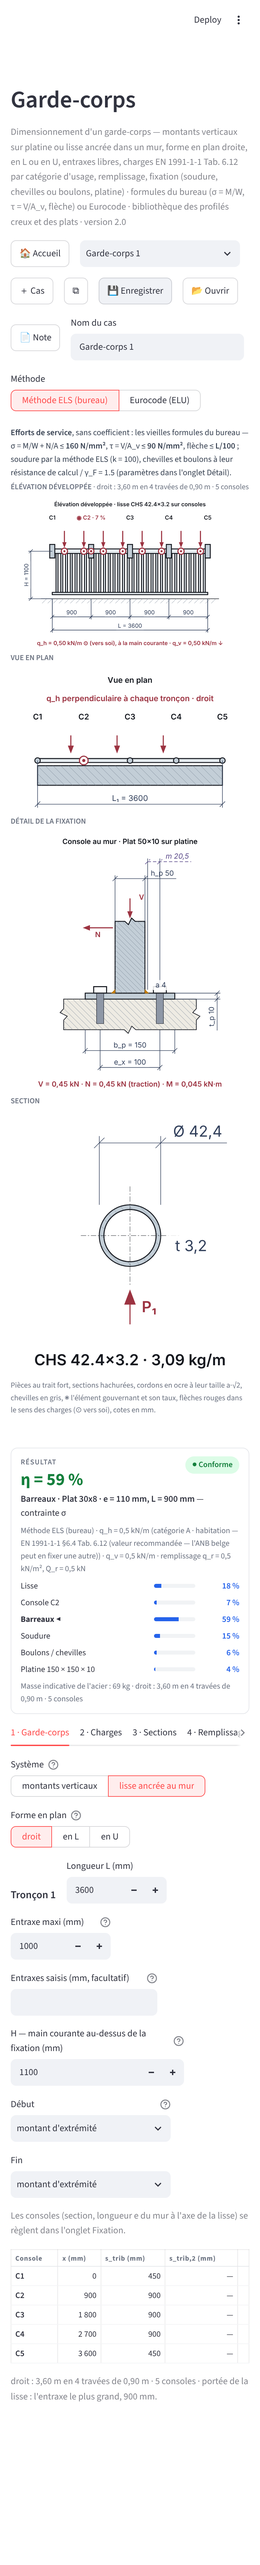
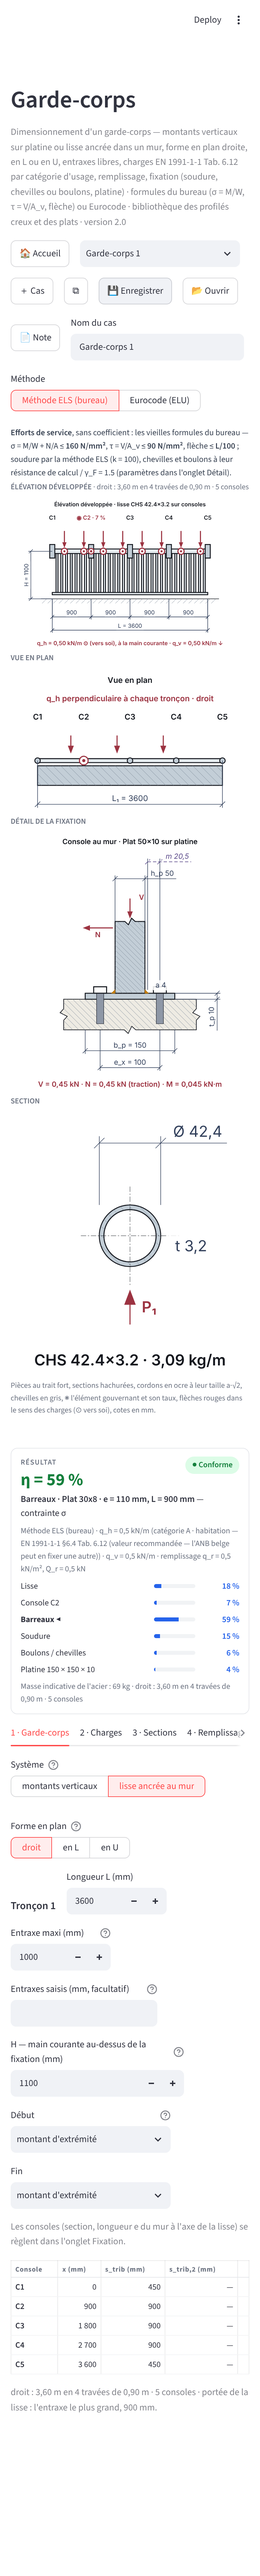
Garde-corps : contrôles Système et Forme en plan à la ligne aux petites largeurs (libellés courts), captures de la doc refaites
Le serveur de capture ne rechargeait pas le dictionnaire des libellés : captures refaites après redémarrage, cinq états × trois largeurs tenus, suite écran au vert (39 OK).

Claude-Session: https://claude.ai/code/session_01LanTzD41YbMBGsnqoqM2dE

diff --git a/modules/garde_corps.py b/modules/garde_corps.py
@@ -371,13 +371,11 @@ def _carte_resultat(cas: Dict, res: Dict):
 # ---------------------------------------------------------------- onglet 1 : garde-corps
 def _etape_garde_corps(cas: Dict, res: Dict):
     g = cas["geometrie"]
-    c1, c2 = st.columns([1.1, 1])
-    with c1:
-        _choix("Système", ("geometrie", "systeme"), cas, list(GE.SYSTEMES), GE.SYSTEMES, segmente=True,
+    with st.container(horizontal=True, wrap=True, gap="medium", vertical_alignment="bottom", key=P + "c_sys"):
+        _choix("Système", ("geometrie", "systeme"), cas, list(GE.SYSTEMES), GE.SYSTEMES, segmente=True, width="content",
                help="Montants verticaux encastrés en pied (platine) portant la lisse haute, ou une lisse horizontale (main courante) "
                     "portée par des consoles ancrées dans un mur, aux mêmes entraxes.")
-    with c2:
-        _choix("Forme en plan", ("geometrie", "forme"), cas, list(GE.FORMES), GE.FORMES, segmente=True,
+        _choix("Forme en plan", ("geometrie", "forme"), cas, list(GE.FORMES), GE.FORMES, segmente=True, width="content",
                help="Un, deux ou trois tronçons droits ; un montant d'angle reçoit une demi-travée de chaque tronçon dans deux directions.")
     n = GE.N_TRONCONS.get(g.get("forme", "droit"), 1)
     for i in range(n):
